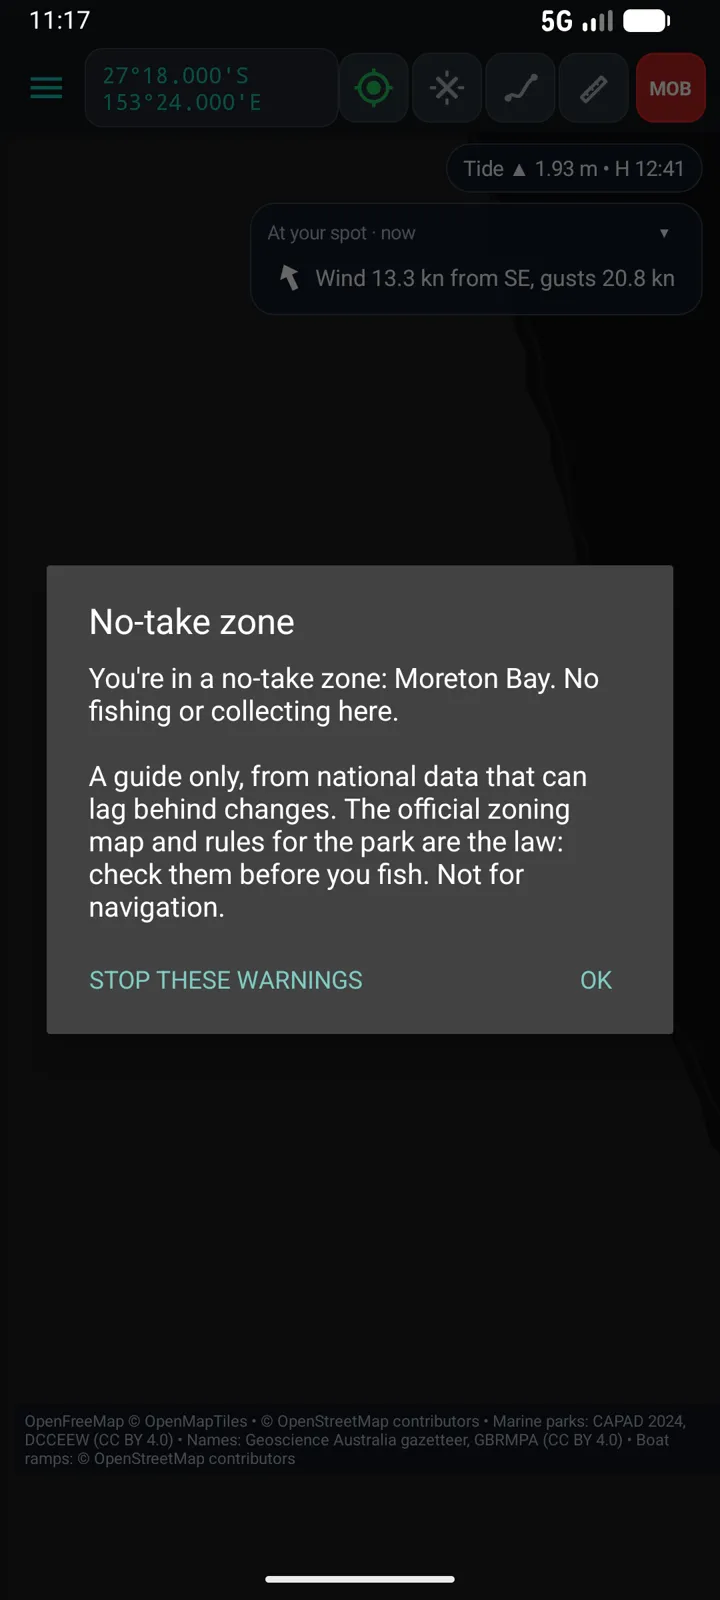
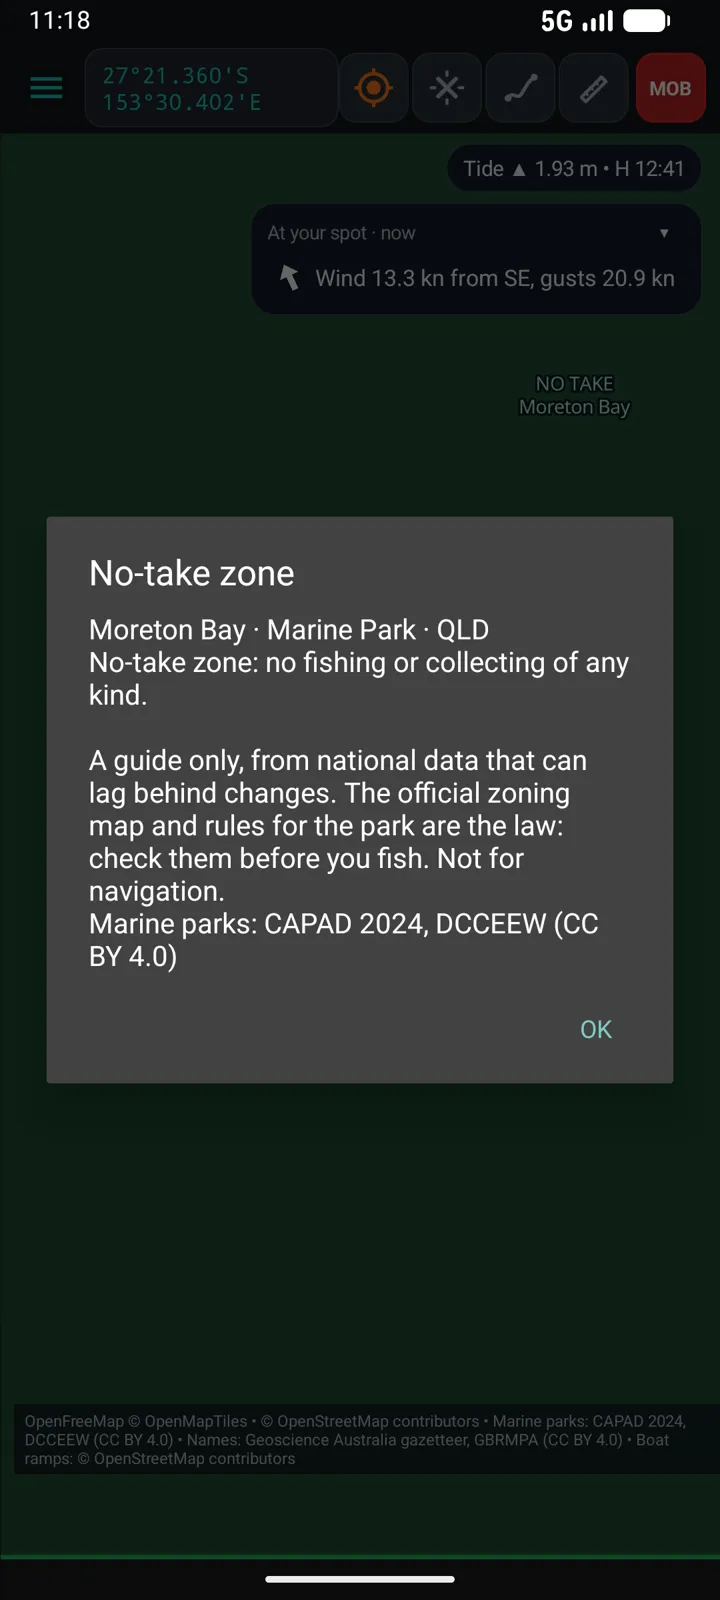
Better no-take screenshot

diff --git a/index.html b/index.html
@@ -262,7 +262,7 @@
     <div class="feature feature-phones">
       <div class="feature-media">
         <div class="phone"><img src="img/android-zones.webp" alt="Moreton Bay with no-take zones in green, reef and bank names, and boat ramps" width="720" height="1600" loading="lazy"></div>
-        <div class="phone phone-offset"><img src="img/android-notake.webp" alt="The warning shown when the boat goes into a no-take zone in Moreton Bay" width="720" height="1600" loading="lazy"></div>
+        <div class="phone phone-offset"><img src="img/android-notake.webp" alt="Tapping a no-take zone in Moreton Bay: what it is and what is allowed" width="720" height="1600" loading="lazy"></div>
       </div>
       <div class="feature-copy">
         <p class="tag">Zones · names · photos</p>
